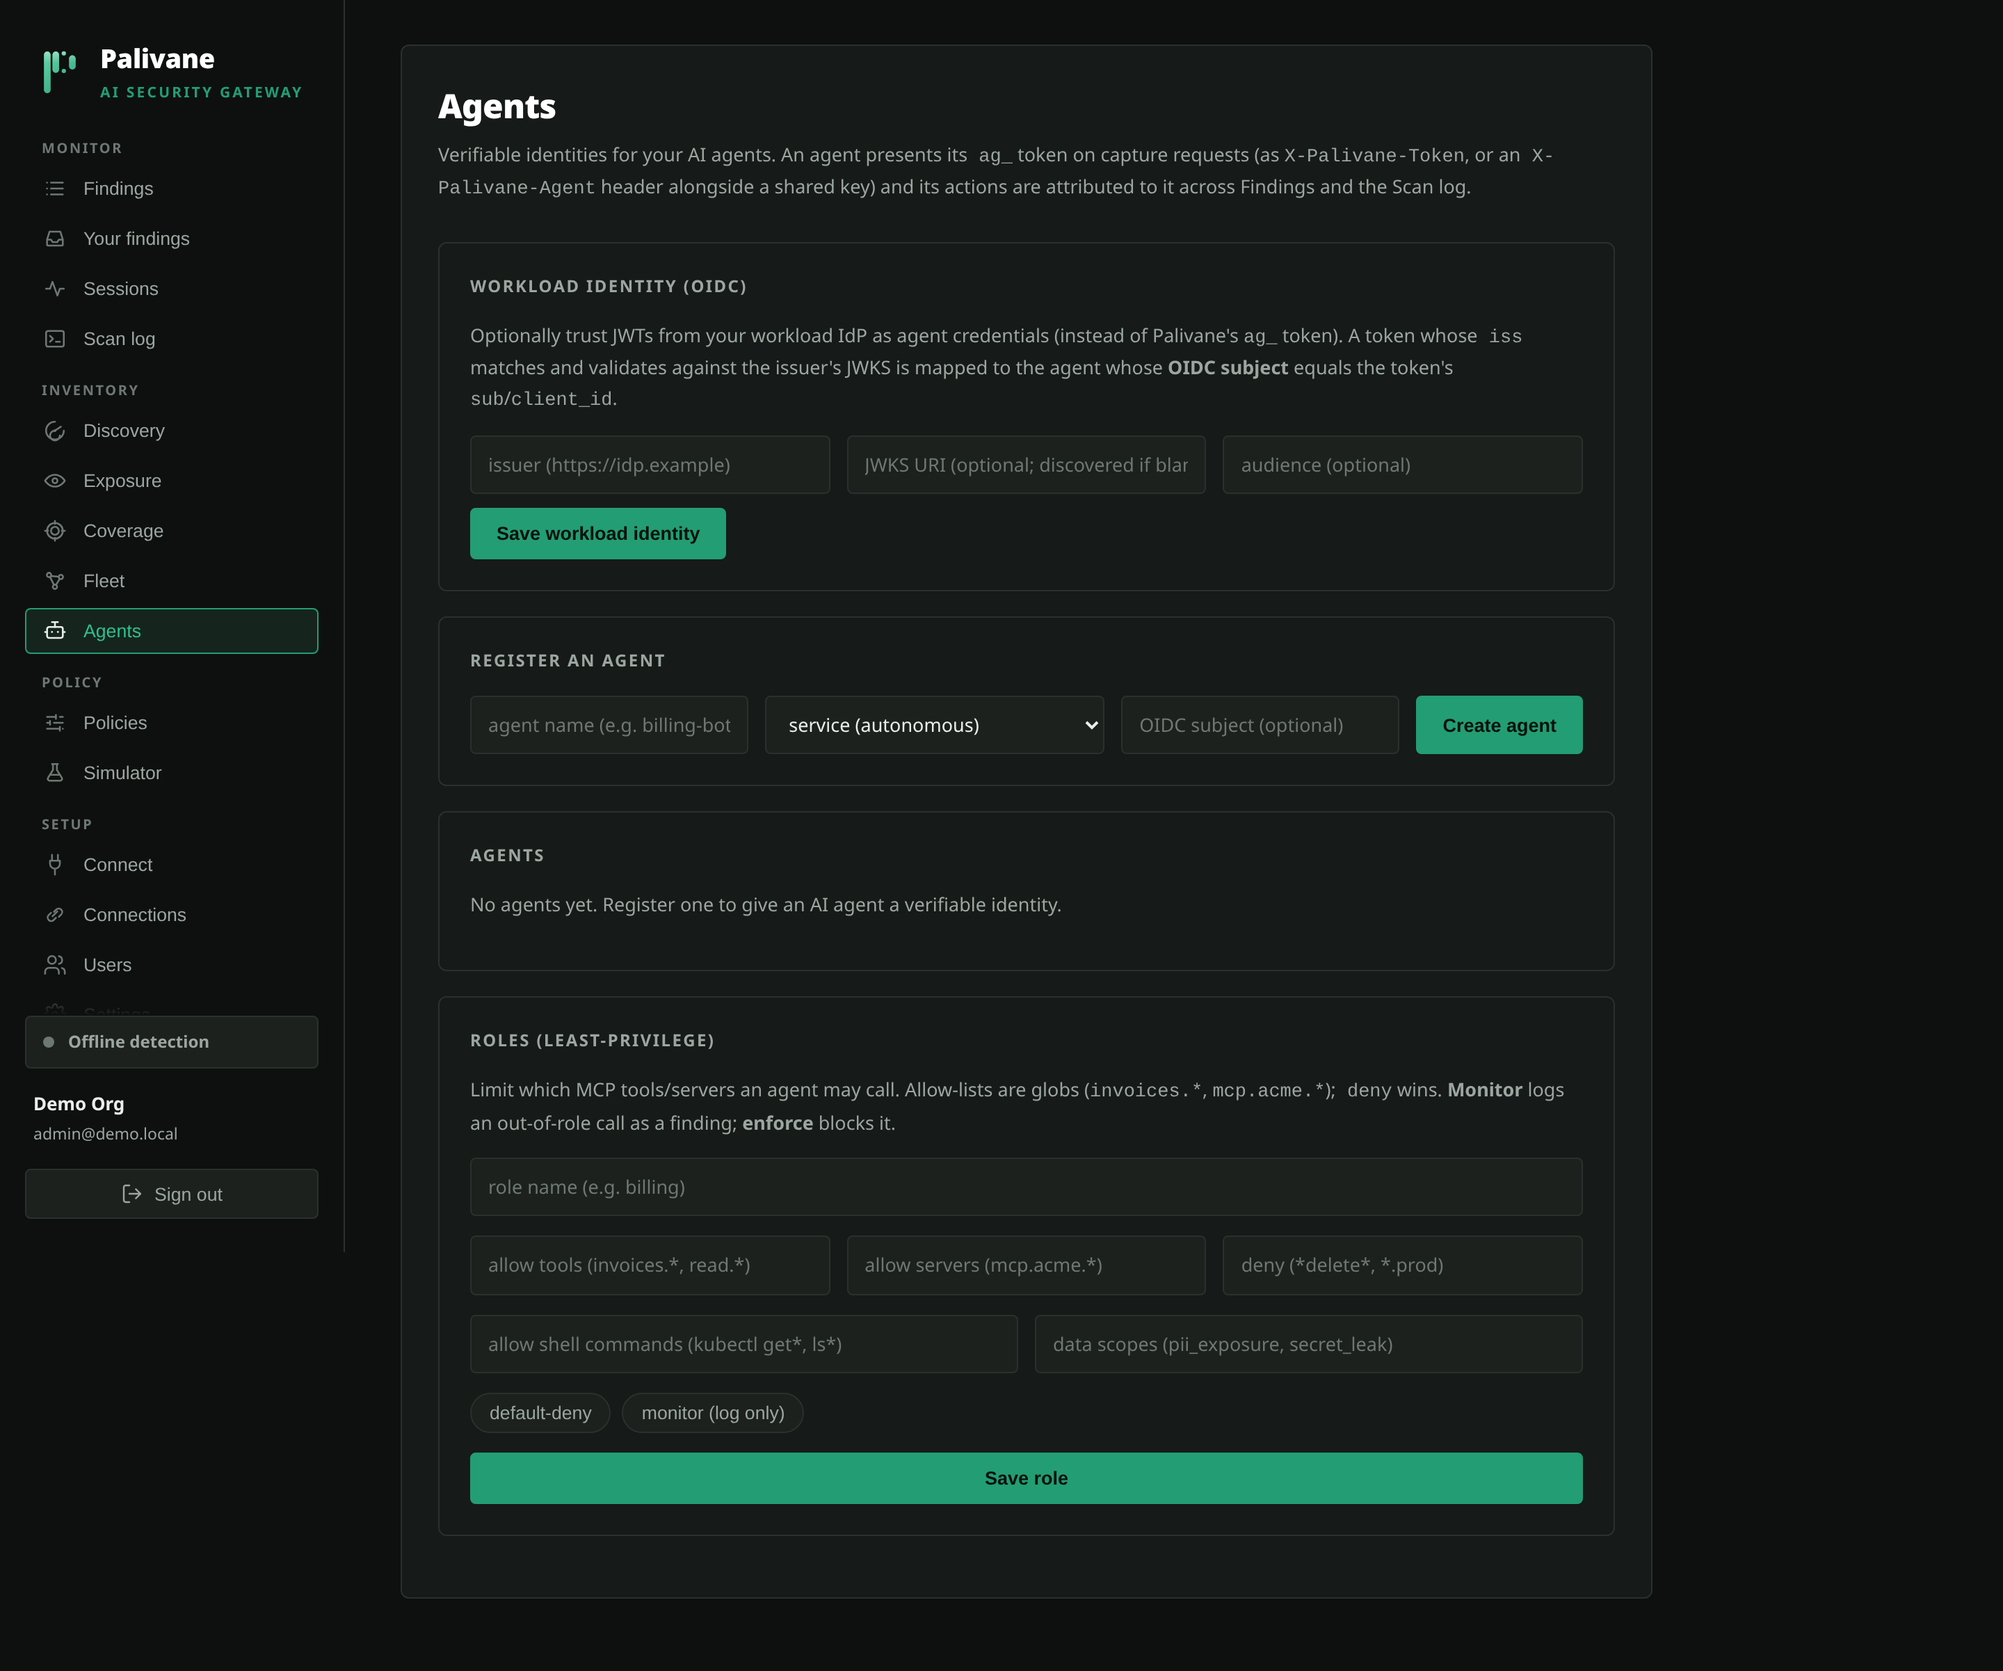
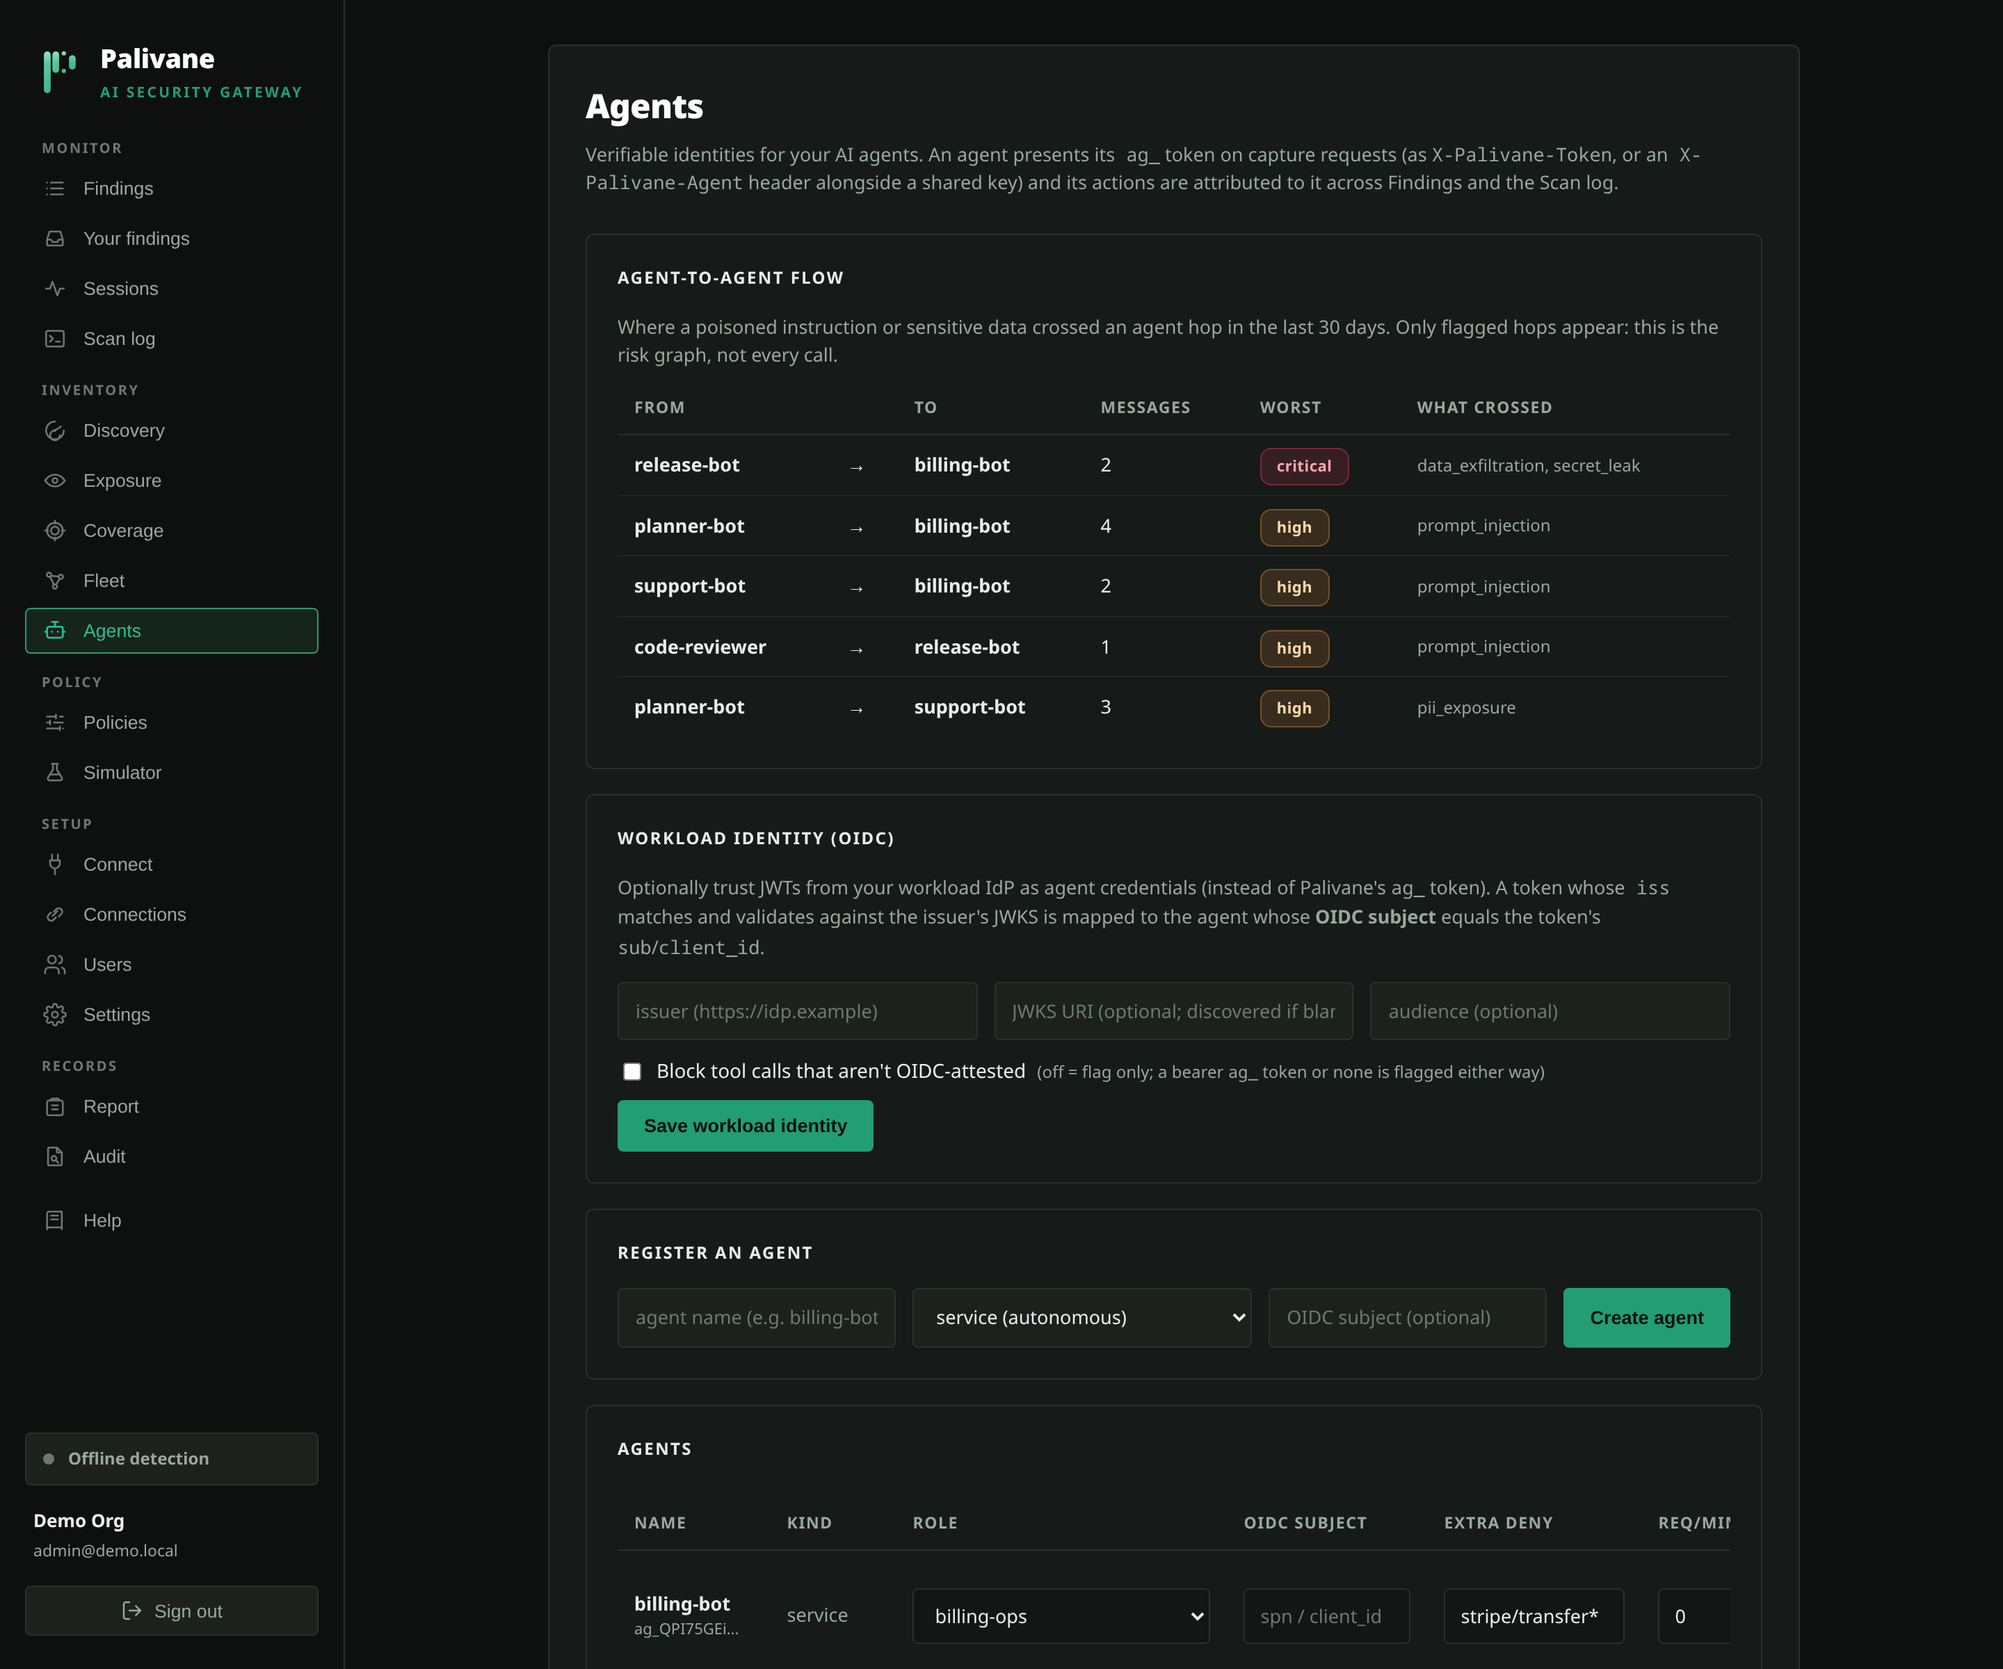
site: populated screenshots, a real video poster, a trust strip, a how-it-works flow
From a pass over the live landing page:

- The Visibility and Agents tabs showed empty console states ("No AI usage
  discovered yet", "No agents yet"). Both are retaken from the seeded demo
  org as admin (no demo banner), at the same 2880px size.
- The "See it work" video poster was a title card; it is now the frame
  where Palivane blocks a paste into Claude (demo-poster19.png).
- A trust strip under the stats: five checkable facts, each linking to the
  page that says it (no AI in the scoring path, self-hosting, the public
  client source, SSO/MFA/audit log, DPA and subprocessors). No logos or
  quotes: nothing that can't be verified.
- A how-it-works flow: where a prompt starts, the checks Palivane runs,
  allow/warn/block, and where it was going. HTML and CSS, so it stays sharp
  and stacks vertically on a phone.
- On a phone the eleven surface tabs show five plus "Show 6 more" (the open
  tab always stays visible); desktop is unchanged.
- Phone stats band: the third stat no longer sits indented under the first.

diff --git a/frontend/src/components/Landing.jsx b/frontend/src/components/Landing.jsx
@@ -77,15 +77,33 @@ const FEATURES = [
   { tab: "Visibility", title: <>You finally know which AI tools are <span className="lp-hl">in use</span></>,
     sub: (st) => `Which AI tools are in use, by whom, and what each received, including the unapproved ones. Checked against a catalog of ${st.catalog_tools} tools; devices that report nothing are named, never counted as clean.`,
     href: "/coverage", link: "What each surface requires",
-    src: "/shots/discovery.png?v=7", alt: "Inventory of AI tools in use" },
+    src: "/shots/discovery.png?v=8", alt: "Inventory of AI tools in use" },
   { tab: "Agents", title: <>AI coding assistants stay <span className="lp-hl">inside the lines</span></>,
     sub: () => "Each assistant gets its own identity and limits, and every action is checked before it runs, not logged afterwards.",
     href: "/use-cases#engineering", link: "How engineering teams use it",
-    src: "/shots/agents.png?v=7", alt: "AI assistant identity and limits" },
+    src: "/shots/agents.png?v=8", alt: "AI assistant identity and limits" },
   { tab: "Trust", title: <>Know how often each check is <span className="lp-hl">right</span></>,
     sub: () => "One-click reviews become a readout per check, and noisy commands and paths become a time-limited allowlist.",
     src: "/shots/precision.png?v=1", alt: "Detection precision: how often each check was right" },
 ];
+
+// Proof the page can back up, each linked to the page that says it in full. No logos or
+// quotes: a security buyer discounts unverifiable ones, and these are all checkable.
+const TRUST = [
+  { title: "No AI in the scoring path", body: "Rules decide. The LLM judge is opt-in.", href: "/how-it-works" },
+  { title: "Self-host it", body: "Same detection, your infrastructure.", href: "/security" },
+  { title: "Read every client", body: "Every hook and scanner is on GitHub.", href: "https://github.com/SOC-Foundry/palivane-clients" },
+  { title: "SSO, MFA, audit log", body: "Every admin action recorded.", href: "/trust" },
+  { title: "DPA and subprocessors", body: "Published on the Trust page.", href: "/trust" },
+];
+
+// The one picture of how it works: where a prompt comes from, the checkpoint it passes,
+// and what can happen to it. Built from HTML, not an image, so it stays sharp and stacks on
+// a phone.
+const FLOW_FROM = ["Browser and AI sites", "Coding assistants", "Desktop apps", "Agents and CI"];
+const FLOW_CHECKS = ["Credentials", "Personal data", "Source code", "Hijacked instructions"];
+const FLOW_TO = ["ChatGPT", "Claude", "Copilot", "Gemini"];
+const SURFACES_ON_PHONE = 5;   // the rest sit behind "Show more" on a narrow screen
 
 const INSTALL_CMD = "curl -fsSL https://app.palivane.io/install.sh | bash";
 
@@ -283,6 +301,7 @@ export default function Landing({ onSignIn }) {
   const [surf, setSurf] = useState(0);
   const [step, setStep] = useState(0);
   const [feat, setFeat] = useState(0);
+  const [allSurf, setAllSurf] = useState(false);
   const rootRef = useRef(null);
   useReveal(rootRef);
   return (
@@ -357,6 +376,51 @@ export default function Landing({ onSignIn }) {
         </div>
       </section>
 
+      <section className="lp-trust-band" aria-label="Why security teams can trust it">
+        <div className="lp-wrap lp-trust">
+          {TRUST.map((t, i) => (
+            <a key={t.title} className="lp-trust-item rv" style={{ "--i": i }} href={t.href}>
+              <svg width="18" height="18" viewBox="0 0 24 24" fill="none" stroke="currentColor"
+                   strokeWidth="2" strokeLinecap="round" strokeLinejoin="round" aria-hidden="true">
+                <path d="M12 3l7 3v5c0 4.5-3 8.3-7 10-4-1.7-7-5.5-7-10V6z" /><path d="M9 12l2 2 4-4" />
+              </svg>
+              <span><strong>{t.title}</strong>{t.body}</span>
+            </a>
+          ))}
+        </div>
+      </section>
+
+      <section className="lp-section">
+        <div className="lp-wrap">
+          <div className="lp-band-head rv">
+            <span className="lp-eyebrow">How it works</span>
+            <h2 className="lp-h2">One checkpoint between your team and <span className="lp-hl">every AI tool</span></h2>
+          </div>
+          <div className="lp-flow rv" style={{ "--i": 1 }}>
+            <div className="lp-flow-col">
+              <span className="lp-flow-label">Where it starts</span>
+              {FLOW_FROM.map((x) => <span key={x} className="lp-flow-chip">{x}</span>)}
+            </div>
+            <span className="lp-flow-arrow" aria-hidden="true" />
+            <div className="lp-flow-core">
+              <span className="lp-flow-brand">Palivane</span>
+              <span className="lp-flow-label">checks for</span>
+              <ul>{FLOW_CHECKS.map((x) => <li key={x}>{x}</li>)}</ul>
+              <div className="lp-flow-out">
+                <span className="ok">Allow</span><span className="warn">Warn</span><span className="block">Block</span>
+              </div>
+            </div>
+            <span className="lp-flow-arrow" aria-hidden="true" />
+            <div className="lp-flow-col">
+              <span className="lp-flow-label">Where it was going</span>
+              {FLOW_TO.map((x) => <span key={x} className="lp-flow-chip">{x}</span>)}
+            </div>
+          </div>
+          <p className="lp-sub lp-flow-note rv">In monitor mode it only records. Turn on blocking for
+            a person, a team, or one tool at a time, when you have seen enough.</p>
+        </div>
+      </section>
+
       <section className="lp-section">
         <div className="lp-wrap lp-split">
           <div className="lp-split-text rv">
@@ -367,7 +431,7 @@ export default function Landing({ onSignIn }) {
             <a className="lp-textlink" href="/how-it-works">How the detection works →</a>
           </div>
           <div className="lp-split-media rv" style={{ "--i": 1 }}>
-            <Clip src="/shots/demo18.mp4" poster="/shots/demo-poster18.png" />
+            <Clip src="/shots/demo18.mp4" poster="/shots/demo-poster19.png" />
           </div>
         </div>
       </section>
@@ -414,15 +478,23 @@ export default function Landing({ onSignIn }) {
               proxy and a certificate, so start without them.</p>
           </div>
           <div className="lp-tabs rv" style={{ "--i": 1 }}>
-            <div className="lp-tablist" role="tablist" aria-orientation="vertical">
+            <div className={`lp-tablist ${allSurf ? "all" : ""}`} role="tablist"
+                 aria-orientation="vertical">
               {CAPTURE.map((c, i) => (
                 <button key={c.title} type="button" role="tab" id={`surf-tab-${i}`}
                         aria-selected={surf === i} aria-controls="surf-panel"
-                        className={`lp-tab ${surf === i ? "is-on" : ""}`}
+                        className={`lp-tab ${surf === i ? "is-on" : ""} ${i >= SURFACES_ON_PHONE ? "lp-tab-extra" : ""}`}
                         onClick={() => setSurf(i)}>
                   <span className="lp-tab-n">{String(i + 1).padStart(2, "0")}</span>{c.title}
                 </button>
               ))}
+              {/* Eleven near-identical rows were a long scroll on a phone: the first few, then
+                  the rest on request. Desktop shows them all (CSS hides this button there). */}
+              {!allSurf && (
+                <button type="button" className="lp-tab-more" onClick={() => setAllSurf(true)}>
+                  Show {CAPTURE.length - SURFACES_ON_PHONE} more
+                </button>
+              )}
             </div>
             <div className="lp-tabpanel" role="tabpanel" id="surf-panel" key={surf}
                  aria-labelledby={`surf-tab-${surf}`}>

diff --git a/frontend/src/styles.css b/frontend/src/styles.css
@@ -1433,6 +1433,9 @@ h4 { font-size: 11.5px; color: var(--muted); text-transform: uppercase; letter-s
   .lp-split-rev .lp-split-text, .lp-split-rev .lp-split-media { order: initial; }
   .lp-split-text.sticky { position: static; }
   .lp-stats { grid-template-columns: repeat(2, 1fr); }
+  /* Two per row: the third stat starts a row, so it loses the divider and the inset that
+     only make sense beside another stat (it sat indented under the first). */
+  .lp-stat:nth-child(odd) { border-left: 0; padding-left: 0; }
 }
 
 .lp-cta-band { position: relative; overflow: hidden; padding: 12px 0 64px; }
@@ -2180,4 +2183,82 @@ h4 { font-size: 11.5px; color: var(--muted); text-transform: uppercase; letter-s
 @media (max-width: 560px) {
   .lp-surfaces .lp-tablist { grid-template-columns: 1fr; gap: 4px; }
   .lp-surfaces .lp-tab { padding: 8px 12px; }
+}
+
+/* ===== Landing: trust strip (verifiable proof, each item links to where it is said in full) ===== */
+.lp-trust-band { border-bottom: 1px solid var(--border); background: var(--bg); }
+.lp-trust { display: grid; grid-template-columns: repeat(5, minmax(0, 1fr)); gap: 0; padding-block: 26px; }
+.lp-trust-item {
+  display: flex; gap: 10px; align-items: flex-start; padding: 6px 18px;
+  border-left: 1px solid var(--border-soft); color: var(--muted); text-decoration: none;
+  font-size: 12.5px; line-height: 1.5; transition: color .15s;
+}
+.lp-trust-item:first-child { border-left: 0; padding-left: 0; }
+.lp-trust-item svg { flex: none; margin-top: 2px; color: var(--accent-2); }
+.lp-trust-item strong { display: block; color: var(--text); font-size: 13.5px; font-weight: 700; margin-bottom: 2px; }
+.lp-trust-item:hover strong { color: var(--accent-2); }
+@media (max-width: 1100px) {
+  .lp-trust { grid-template-columns: repeat(3, minmax(0, 1fr)); row-gap: 18px; }
+  .lp-trust-item:nth-child(4) { border-left: 0; padding-left: 0; }
+}
+@media (max-width: 720px) {
+  .lp-trust { grid-template-columns: 1fr; row-gap: 14px; padding-block: 22px; }
+  .lp-trust-item { border-left: 0; padding-left: 0; }
+}
+
+/* ===== Landing: how-it-works flow (sources -> checkpoint -> AI tools) ===== */
+.lp-flow {
+  display: grid; grid-template-columns: minmax(0, 1fr) 56px minmax(0, 1.15fr) 56px minmax(0, 1fr);
+  align-items: center; margin-top: 34px;
+}
+.lp-flow-col { display: flex; flex-direction: column; gap: 8px; }
+.lp-flow-label {
+  font-size: 11px; font-weight: 700; letter-spacing: 1.4px; text-transform: uppercase;
+  color: var(--muted-2); margin-bottom: 4px;
+}
+.lp-flow-chip {
+  border: 1px solid var(--border); background: var(--panel); border-radius: 9px;
+  padding: 11px 14px; color: var(--text); font-size: 14px; font-weight: 600;
+}
+.lp-flow-arrow { height: 2px; background: linear-gradient(90deg, var(--border-bright), var(--accent)); position: relative; margin-inline: 8px; }
+.lp-flow-arrow::after {
+  content: ""; position: absolute; right: -2px; top: -5px;
+  border: 6px solid transparent; border-left-color: var(--accent); border-right: 0;
+}
+.lp-flow-core {
+  border: 1px solid var(--accent); border-radius: 16px; padding: 26px 26px 22px;
+  background: radial-gradient(120% 100% at 50% 0%, var(--accent-soft), var(--panel) 70%);
+  box-shadow: 0 0 0 6px rgba(47, 191, 143, 0.06), var(--shadow-lg);
+  display: flex; flex-direction: column; align-items: flex-start;
+}
+.lp-flow-brand { font-size: 22px; font-weight: 800; color: #fff; letter-spacing: -.4px; margin-bottom: 12px; }
+.lp-flow-core ul { list-style: none; margin: 0 0 18px; padding: 0; display: grid; grid-template-columns: 1fr 1fr; gap: 6px 14px; width: 100%; }
+.lp-flow-core li { font-size: 13.5px; color: var(--text); padding-left: 16px; position: relative; }
+.lp-flow-core li::before { content: ""; position: absolute; left: 0; top: 7px; width: 7px; height: 7px; border-radius: 2px; background: var(--accent-2); }
+.lp-flow-out { display: flex; gap: 8px; width: 100%; }
+.lp-flow-out span {
+  flex: 1; text-align: center; font-size: 12.5px; font-weight: 700; padding: 7px 0; border-radius: 7px;
+  border: 1px solid;
+}
+.lp-flow-out .ok { color: var(--benign); border-color: rgba(47, 163, 122, .45); background: rgba(47, 163, 122, .08); }
+.lp-flow-out .warn { color: var(--susp); border-color: rgba(217, 166, 46, .45); background: rgba(217, 166, 46, .08); }
+.lp-flow-out .block { color: var(--crit); border-color: rgba(229, 72, 77, .45); background: rgba(229, 72, 77, .08); }
+.lp-flow-note { margin-top: 22px; }
+@media (max-width: 900px) {
+  .lp-flow { grid-template-columns: 1fr; gap: 0; }
+  .lp-flow-col { display: grid; grid-template-columns: 1fr 1fr; gap: 8px; }
+  .lp-flow-col .lp-flow-label { grid-column: 1 / -1; }
+  .lp-flow-arrow { width: 2px; height: 34px; margin: 10px auto; background: linear-gradient(180deg, var(--border-bright), var(--accent)); }
+  .lp-flow-arrow::after { right: -5px; top: auto; bottom: -2px; border: 6px solid transparent; border-top-color: var(--accent); border-bottom: 0; }
+}
+
+/* ===== Landing: surface list collapses on a phone ===== */
+.lp-tab-more { display: none; }
+@media (max-width: 720px) {
+  .lp-tablist:not(.all) .lp-tab-extra:not(.is-on) { display: none; }
+  .lp-tab-more {
+    display: block; background: transparent; border: 1px dashed var(--border-bright); border-radius: 10px;
+    padding: 12px 16px; color: var(--accent-2); font: inherit; font-size: 14.5px; font-weight: 650;
+    cursor: pointer; text-align: left;
+  }
 }
